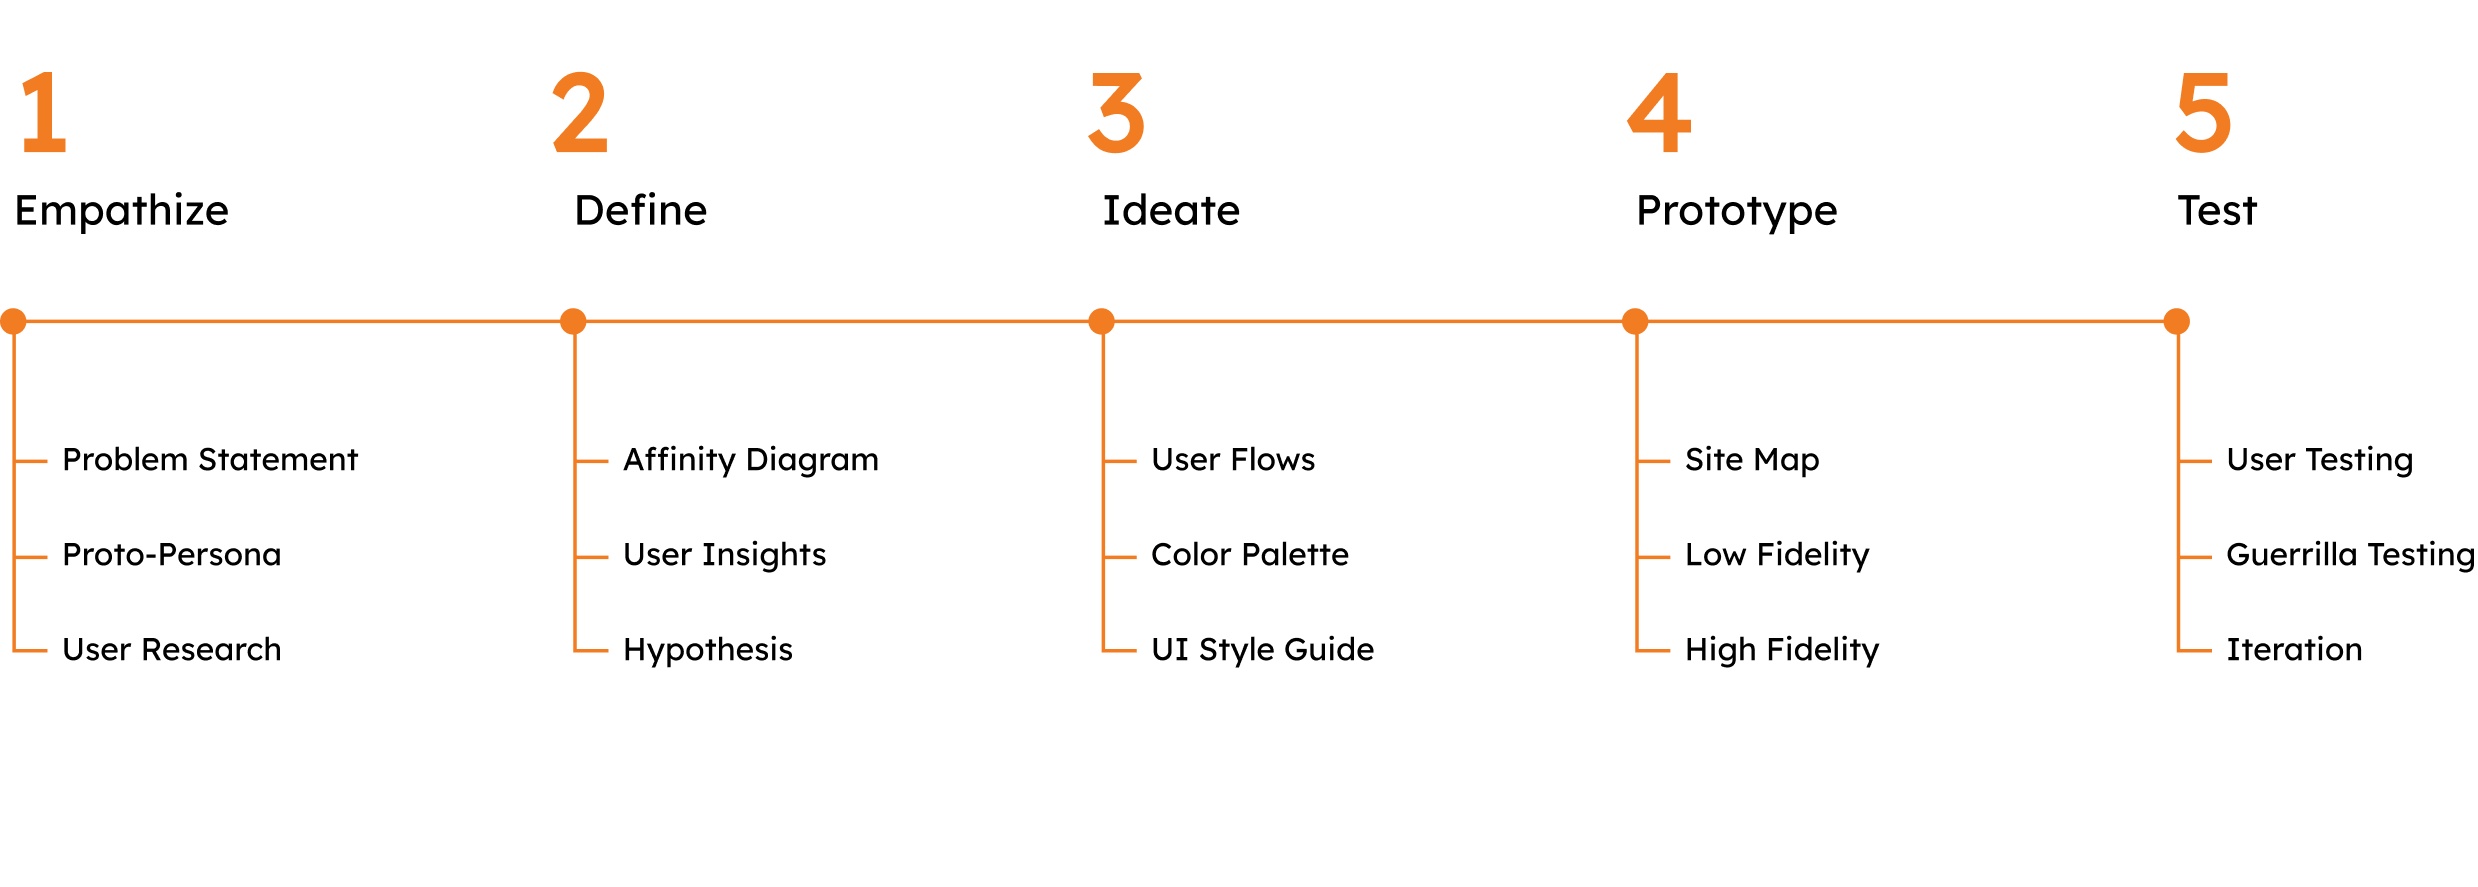
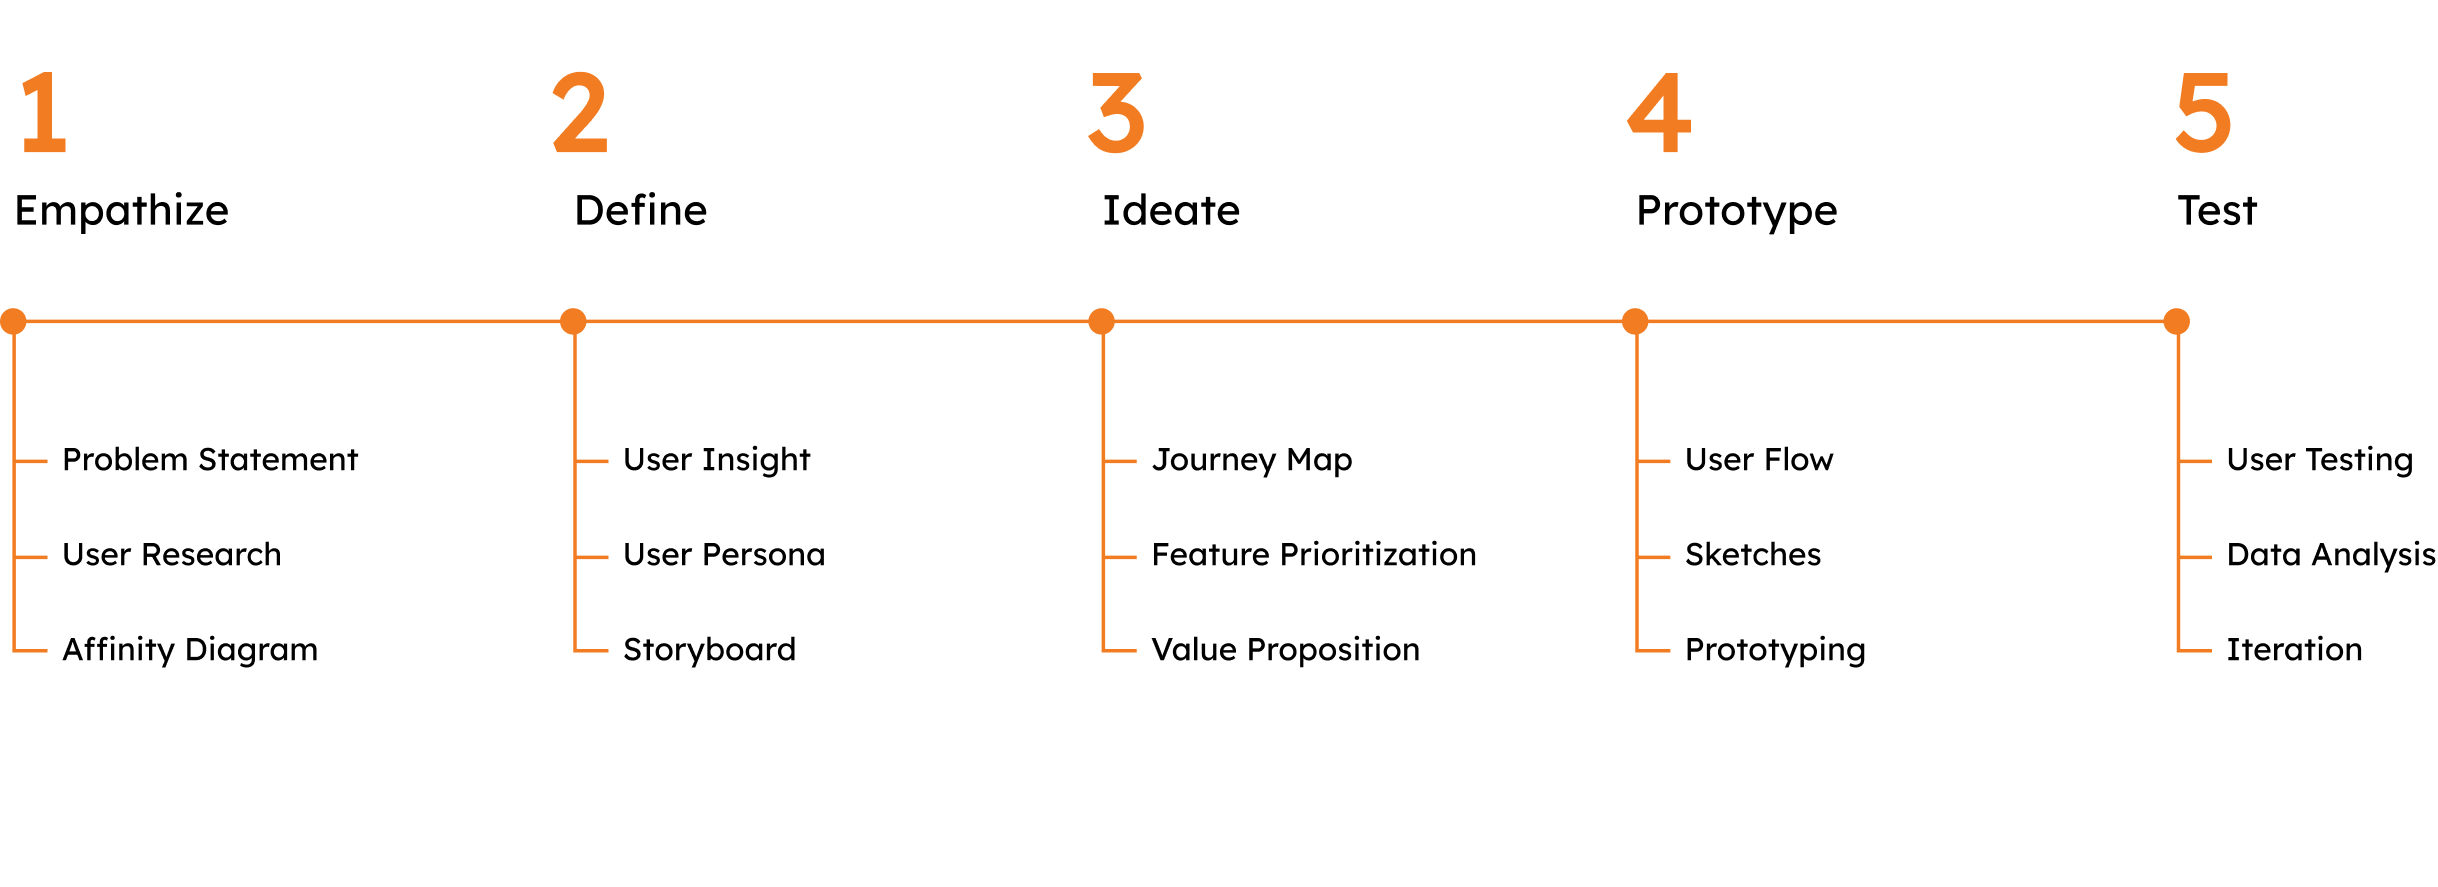
tabletips case study

diff --git a/tabletips-app.html b/tabletips-app.html
@@ -51,7 +51,7 @@
             <div class="caseCard">
                 <h4>My Role</h4>
                 <div class="caseLinebreak"></div>
-                <p>As a UX designer on a team of three, we worked together throughout the process, learning from each other as we applied our new skills at each step.</p>
+                <p>As a UX designer on a team of three, we worked together throughout the process, primarily focusing on research and empathizing with our user.</p>
             </div>
 
         <!--Scope-->
@@ -64,20 +64,11 @@
 
             <!--Problem-->
             <div class="projectCasecard projectCardreverse">
+                <img src="images/Tabletips Problem Lady.png">
                 <div class="projectCaseinfo">
                     <h4>Problem</h4>
                     <div class="caseLinebreak"></div>
                     <p>Tabletop gamers often hesitate to try new games due to the difficulty of learning new rulesets.</p>
-                    </div>
-                    <img src="images/Tabletips Problem Lady.png">
-                </div>
-    
-            <!--Value Proposition-->
-                <div class="projectCasecard">
-                    <img src="images/Tabletips Idea Lady.png">
-                    <div class="caseContainer">
-                        <img src="images/TableTips Logo.png" class="halfSize">
-                        <p>TableTips provides an engaging and comprehensive way to quickly learn new tabletop games.</p>
                     </div>
                 </div>
 
@@ -87,27 +78,19 @@
                 <h4>Methodology</h4>
                 <div class="caseLinebreak"></div>
                 <p>We began our work by defining the structure of our project, categorizing tasks into five design phases: empathize, define, ideate, prototype, and test. Our primary goal was to develop a user friendly application which users could quickly and easily learn the rules of a board-game in a fun and engaging way.</p>
-                <p><br>Our work began with trying to understand our user and the unique problems they face when learning new tabletop games.</p>
+                <p><br>Our work began with trying to understand tabletop gamers and the unique problems they face when learning new tabletop games.</p>
             </div>
         </div>
         <div class="caseContainer">
             <img src="images/Tabletips Methodology.png" class="caseSlide">
         </div>
 
-        <!--Research Objectives-->
+        <!--User Research-->
         <div class="projectCasecard">
-            <img src="images/TT Illustration3.png" class="halfSize">
             <div class="projectCaseinfo">
                 <h4><b>User Research</b></h4>
                 <div class="caseLinebreak"></div>
                 <p>As a team, we wanted to discover the barriers users face when trying to learn new tabletop games and create a solution to address this common pain point in the gaming experience.</p>
-            </div>
-        </div>
-
-        <div class="projectCasecard">
-            <div class="projectCaseinfo">
-                <h4>Research Objectives</h4>
-                <div class="caseLinebreak"></div>
                 <h3>1.</h3>
                 <p>To understand the elements that attract users to tabletop games.</p>
                 <h3>2.</h3>
@@ -115,6 +98,47 @@
                 <h3>3.</h3>
                 <p>To understand the thought process of users looking to discover new games.</p>
             </div>
+            <img src="images/TT Illustration3.png" class="halfSize">
+        </div>
+
+        <!--Competitor Analysis-->
+        <div class="projectCasecard">
+            <div class="projectCaseinfo">
+                <h4>Competitor Analysis</h4>
+                <div class="caseLinebreak"></div>
+                <p>We had a hard time finding many direct competitors, but what we did find was a bit disorganized and not very user-friendly. Mostly, we found YouTube videos explaining the gameplay.</p>
+            </div>
+        </div>
+        <div class="projectCaseinfo">
+            <img src="images/Tabletips Direct CA.png" class="caseSlide" alt="Our direct competitors">
+        </div>
+        <div class="projectCaseinfo">
+            <p>We also considered indirect competitors in the form of board game rulebooks. Since part of our focus was going to be on how users learn new games, I wanted to analyze how games organized their rulesets.</p>
+            <img src="images/Tabletips Indirect CA.png" class="caseSlide" alt="Our indirect competitors">
+        </div>
+
+        <!--Affinity Diagram-->
+        <div class="projectCasecard">
+            <div class="projectCaseinfo">
+                <h4>Affinity Diagram</h4>
+                <div class="caseLinebreak"></div>
+                <p>We analyzed our research data and mapped it to an affinity diagram, categorizing our user’s responses into actionable insights. </p>
+            </div>
+        </div>
+        <div class="projectCaseinfo">
+            <img src="images/TableTips Affinity Diagram.png" class="caseSlide" alt="An affinity diagram">
+        </div>
+
+        <!--User Insight-->
+        <div class="projectCasecard">
+            <div class="projectCaseinfo">
+                <h4><b>User Insight</b></h4>
+                <div class="caseLinebreak"></div>
+                <p>During our research, we spoke to gamers with years of experience playing board games. Most of our users have a regular tabletop game night, usually weekly or biweekly, and enjoy the challenge of mastering new games.</p>
+                <p><br>Tabletop gamers need an engaging and comprehensive way to quickly learn new tabletop games. This will meet their desire to expand their game repertoire, challenge themselves with new rulesets, and enjoy quality time playing with friends.</p>
+                </p>
+            </div>
+            <img src="images/Tabletips User Research.png" class="seventyFive">
         </div>
 
         <!--Persona-->
@@ -129,8 +153,94 @@
         <div class="projectCaseinfo">
             <img src="images/Jackie.png" class="caseSlide" alt="A user persona named Jackie.">
         </div>
-    </div>
 
+        <!--Storyboard-->
+        <div class="projectCasecard">
+            <div class="projectCaseinfo">
+                <h4>Jackie's Story</h4>
+                <div class="caseLinebreak"></div>
+                <p>Jackie's story was important to define if we wanted to solve the challenge she faces when trying to learn a new game. We created a storyboard to define and visualize the problem.</p>
+            </div>
+        </div>
+        <div class="projectCaseinfo">
+            <img src="images/TableTips Storyboard.png" class="caseSlide" alt="Jackie's Storyboard">
+        </div>
+
+        <!--User Journey Map-->
+        <div class="projectCasecard">
+            <div class="projectCaseinfo">
+                <h4>Journey Map</h4>
+                <div class="caseLinebreak"></div>
+                <p>Diving into the details, we analyzed each stage in Jackie's story. What were her expectations? How did she feel at each point of her journey discovering TableTips?</p>
+                <br><p>We even had our own game night to learn how to play the 'smash' hit deck-building game Smash Up! This experience helped us develop our understanding of how to break rulesets down into more digestible "spark note" gameplay essentials.</p>
+            </div>
+        </div>
+        <div class="projectCaseinfo">
+            <img src="images/TableTips Journey Map.png" class="caseSlide" alt="Jackie's Journey">
+        </div>
+
+        <!--Feature Prioritization-->
+        <div class="projectCasecard">
+            <div class="projectCaseinfo">
+                <h4>Feature Prioritization</h4>
+                <div class="caseLinebreak"></div>
+                <p>With our problem defined and a path towards a solution, we started sorting our ideas by their impactfulness and feasability on a feature prioritization matrix. The ability to </p>
+            </div>
+        </div>
+        <div class="projectCaseinfo">
+            <img src="images/TableTips Feature Prioritization.png" class="caseSlide" alt="Feature Prioritization Matrix">
+        </div>
+
+        <!--User Flows-->
+        <div class="projectCasecard">
+            <div class="projectCaseinfo">
+                <h4>User Flows</h4>
+                <div class="caseLinebreak"></div>
+                <p>We started generating potential user flows, focusing in three areas: onboarding, user profile, and QuickPlay: a feature that gets in you in the game fast by teaching you the rules in a few simple steps.</p>
+            </div>
+        </div>
+        <div class="projectCaseinfo">
+            <img src="images/TableTips Quickplay User Flow.png" class="caseSlide" alt="Feature Prioritization Matrix">
+        </div>
+
+        <!--Value Proposition-->
+        <div class="projectCasecard">
+            <img src="images/Tabletips Idea Lady.png">
+            <div class="caseContainer">
+                <img src="images/TableTips Logo.png" class="halfSize">
+                <p>TableTips provides an engaging and comprehensive way to quickly learn new tabletop games.</p>
+            </div>
+        </div>
+
+        <!--Sketches-->
+        <div class="projectCasecard">
+            <div class="projectCaseinfo">
+                <h4>Sketches</h4>
+                <div class="caseLinebreak"></div>
+                <p>Our prototype for the QuickPlay feature began as a paper sketch. Rapid prototyping allowed us to improve on our flows with each iteration.</p>
+            </div>
+        </div>
+            <div class="projectCaseinfo">
+                <img src="images/TableTips Prototype.png" class="caseSlide" alt="TableTips Prototyping.">
+            </div>
+
+        <!--Prototype-->
+        <div class="projectCasecard">
+            <div class="projectCaseinfo">
+                <h4>Prototype</h4>
+                <div class="caseLinebreak"></div>
+                <p>Tabletips QuickPlay provides a swift and simplified tutorial that covers the essential rules of the game, so you can jump into the action without delay.</p>
+            </div>
+        </div>
+            <div class="projectCaseinfo">
+                <img src="images/TableTips Quickplay Prototype.png" class="caseSlide" alt="TableTips Prototyping.">
+            </div>
+            <a href="https://www.figma.com/proto/ijOBgyiMHugbwBQqW2kdGC/SundropAI-Design?page-id=23%3A111&type=design&node-id=981-7863&viewport=1590%2C-507%2C0.13&t=FIlNuCCmtzPDdpog-1&scaling=scale-down&starting-point-node-id=981%3A7863&show-proto-sidebar=1&mode=design" class="button">
+                Try Out Tabletips!
+            </a>
+
+    </div>
+    
 </section>
 
     <!--Footer-->

diff --git a/styles.css b/styles.css
@@ -115,6 +115,10 @@ img {
     width: 50%;
 }
 
+.seventyFive {
+    width: 75%;
+}
+
 /*Intro*/
 
 #intro {
